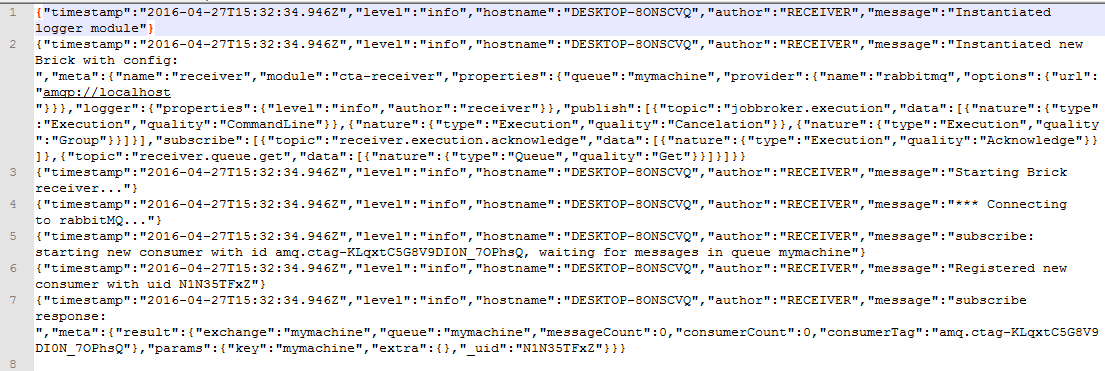
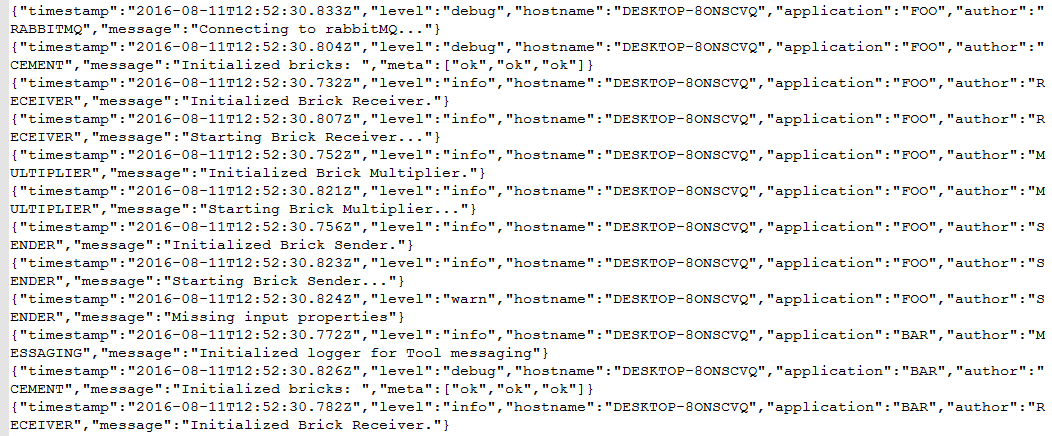
updated docs

diff --git a/samples/custom.js b/samples/custom.js
@@ -1,20 +1,26 @@
 'use strict';
 const os = require('os');
 const path = require('path');
-const fs = require('fs');
 const Logger = require('cta-logger');
-
 const filename = os.tmpDir() + path.sep + 'default.txt';
 const logger = new Logger({
-  filename: filename,
+  cement: {
+    configuration: {
+      name: 'my app',
+    },
+  },
+}, {
+  properties: {
+    filename: filename,
+  },
 });
+const foo = logger.author('foo');
+
+const bar = logger.author('bar');
+
 logger.info('Starting app...');
-logger.log('info', 'Loading dependencies... please wait!');
-logger.debug('All dependencies have been loaded.');
-logger.error('An error has occurred!');
-setTimeout(function() {
-  fs.readFile(filename, 'utf8', (err, data) => {
-    if (err) throw err;
-    console.log('Content of file %s :', filename, data);
-  });
-}, 500);
+// 2016-08-11T12:31:48.258Z - info - DESKTOP-8ONSCVQ - MY APP - UNKNOWN - "Starting app..."
+foo.info('Hi, i am foo');
+// 2016-08-11T12:31:48.262Z - info - DESKTOP-8ONSCVQ - MY APP - FOO - "Hi, i am foo"
+bar.info('Hi, and i am bar');
+// 2016-08-11T12:31:48.263Z - info - DESKTOP-8ONSCVQ - MY APP - BAR - "Hi, and i am bar"

diff --git a/samples/default.js b/samples/default.js
@@ -5,8 +5,8 @@ const logger = new Logger();
 const foo = logger.author('foo');
 const bar = logger.author('bar');
 logger.info('Hi there');
-// 2016-07-29T16:07:05.259Z - info - DESKTOP-8ONSCVQ - UNKNOWN - "Hi there"
+// 2016-08-11T12:26:43.038Z - info - DESKTOP-8ONSCVQ - UNKNOWN - UNKNOWN - "Hi there"
 foo.info('Hi, i am foo');
-// 2016-07-29T16:07:05.263Z - info - DESKTOP-8ONSCVQ - FOO - "Hi, i am foo"
+// 2016-08-11T12:26:43.042Z - info - DESKTOP-8ONSCVQ - UNKNOWN - FOO - "Hi, i am foo"
 bar.info('Hi, and i am bar');
-// 2016-07-29T16:07:05.264Z - info - DESKTOP-8ONSCVQ - BAR - "Hi, and i am bar"
+// 2016-08-11T12:26:43.043Z - info - DESKTOP-8ONSCVQ - UNKNOWN - BAR - "Hi, and i am bar"

diff --git a/lib/index.js b/lib/index.js
@@ -108,6 +108,9 @@ function Logger(dependencies, configuration) {
     conf.name = id + '-logger';
     return new Logger(dependencies, conf);
   };
+  if (_config.file) {
+    logger.debug('Log file set to: ', logger.transports.file.dirname + path.sep + logger.transports.file.filename);
+  }
   return logger;
 }
 

diff --git a/README.md b/README.md
@@ -1,7 +1,9 @@
 # Tool cta-logger
+
 This is the logger Tool for cta project
 
 ## How it works
+
 This logger uses [winston](https://github.com/winstonjs/winston) module
 
 It can instantiate multiple loggers with different configurations using winston.Container features
@@ -19,8 +21,10 @@ File output:
 ## Instantiation
 
 ### Inside Bricks
-A logger is instantiated by Cement using the configuration entry, then passed to the Brick
+
+A logger is instantiated by Cement using the configuration entry, then passed to the Brick through CementHelper
 It is then available in the Brick level as a dependency of cementHelper: cementHelper.dependencies
+
 ````javascript
 'use strict';
 const Brick = require('cta-brick');
@@ -35,6 +39,7 @@ class MyBrick extends Brick {
 ### Outside Bricks
 
 #### default logger options
+
 ````javascript
 'use strict';
 const Logger = require('cta-logger');
@@ -43,6 +48,7 @@ logger.info('Instantiated new logger with default config');
 ````
 
 #### custom logger options
+
 ````javascript
 const Logger = require('cta-logger');
 const logger = new Logger(null, {
@@ -54,6 +60,7 @@ const logger = new Logger(null, {
 });
 logger.info('Instantiated new logger with custom config', config);
 ```` 
+
 Supported options are:
 - level: log level (see levels section)
 - console: true or false
@@ -61,6 +68,7 @@ Supported options are:
 - filename: full path to a log file where to save logs in json format 
 
 ## Log levels
+
 Supported levels by priority: error, warn, info, verbose, debug, silly
 
 ````javascript
@@ -79,7 +87,8 @@ If you configure your logger with a level 'debug' you will see only logged messa
 
 ..etc
 
-### Log output author or id
+### Log output author name
+
 By default, author of the log output is set to UNKNOWN, to override it you can either
 
 * ask for a new logger instance
@@ -90,18 +99,48 @@ const logger = new Logger();
 const foo = logger.author('foo');
 const bar = logger.author('bar');
 logger.info('Hi there');
-// 2016-07-29T16:07:05.259Z - info - DESKTOP-8ONSCVQ - UNKNOWN - "Hi there"
+// 2016-07-29T16:07:05.259Z - info - DESKTOP-8ONSCVQ - UNKNOWN - UNKNOWN - "Hi there"
 foo.info('Hi, i am foo');
-// 2016-07-29T16:07:05.263Z - info - DESKTOP-8ONSCVQ - FOO - "Hi, i am foo"
+// 2016-07-29T16:07:05.263Z - info - DESKTOP-8ONSCVQ - UNKNOWN - FOO - "Hi, i am foo"
 bar.info('Hi, and i am bar');
-// 2016-07-29T16:07:05.264Z - info - DESKTOP-8ONSCVQ - BAR - "Hi, and i am bar"
+// 2016-07-29T16:07:05.264Z - info - DESKTOP-8ONSCVQ - UNKNOWN - BAR - "Hi, and i am bar"
 ````
 
 * or instantiate it with author parameter
 
 ````javascript
 const Logger = require('cta-logger');
-const logger = new Logger(null, null, 'something');
+const logger = new Logger(null, {
+    properties: {
+        author: 'something',
+    },
+});
 logger.info('Hi');
-// 2016-07-29T16:10:05.123Z - info - DESKTOP-8ONSCVQ - SOMETHING - "Hi"
+// 2016-07-29T16:10:05.123Z - info - DESKTOP-8ONSCVQ - UNKNOWN - SOMETHING - "Hi"
+````
+
+### Log output application name
+
+By default, application name is set to UNKNOWN, to override it you need cement dependency to access application configuration
+
+````javascript
+const Logger = require('cta-logger');
+const logger = new Logger({
+  cement: {
+    configuration: {
+      name: 'my app',
+    },
+  },
+}, null);
+const foo = logger.author('foo');
+const bar = logger.author('bar');
+
+logger.info('Starting app...');
+// 2016-08-11T12:31:48.258Z - info - DESKTOP-8ONSCVQ - MY APP - UNKNOWN - "Starting app..."
+
+foo.info('Hi, i am foo');
+// 2016-08-11T12:31:48.262Z - info - DESKTOP-8ONSCVQ - MY APP - FOO - "Hi, i am foo"
+
+bar.info('Hi, and i am bar');
+// 2016-08-11T12:31:48.263Z - info - DESKTOP-8ONSCVQ - MY APP - BAR - "Hi, and i am bar"
 ````
